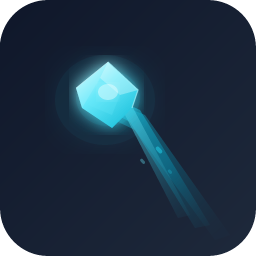
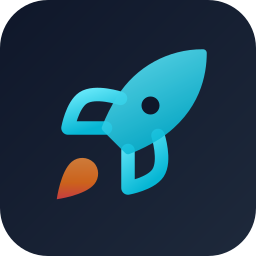
[media]: ikon ve README guncellendi
- icon.png roket ikonuyla degistirildi (256x256)
- sidebar-icon.svg Lucide rocket ikonu olarak guncellendi (24x24)
- Kullanilmayan icon.svg silindi
- README badge ve link'ler kairos reposuna guncellendi

Changed region(s): [[0.2188, 0.1875, 0.8125, 0.8438], [0.2188, 0.5938, 0.4062, 0.7812], [0.0, 0.125, 0.0312, 0.1562]]

diff --git a/README.md b/README.md
@@ -11,7 +11,7 @@
 
 <p align="center">
   <a href="https://code.visualstudio.com/"><img src="https://img.shields.io/badge/VS%20Code-%5E1.85.0-007ACC?logo=visual-studio-code&logoColor=white" alt="VS Code"></a>
-  <a href="https://github.com/Kenfrozz/roadmap-editor-vscode/releases"><img src="https://img.shields.io/github/v/release/Kenfrozz/roadmap-editor-vscode?color=28a745" alt="Version"></a>
+  <a href="https://github.com/Kenfrozz/kairos/releases"><img src="https://img.shields.io/github/v/release/Kenfrozz/kairos?color=28a745" alt="Version"></a>
   <a href="LICENSE"><img src="https://img.shields.io/badge/License-MIT-yellow.svg" alt="License: MIT"></a>
 </p>
 
@@ -48,8 +48,8 @@ VS Code Extensions bolumunden **Kairos** aratarak yukleyin.
 ### Manuel Kurulum
 
 ```bash
-git clone https://github.com/Kenfrozz/roadmap-editor-vscode.git
-cd roadmap-editor-vscode
+git clone https://github.com/Kenfrozz/kairos.git
+cd kairos
 npm install
 npm run build
 ```
@@ -164,7 +164,7 @@ npm run package
 ### Proje Yapisi
 
 ```
-roadmap-editor-vscode/
+kairos/
 ├── src/                           # Extension backend (TypeScript)
 │   ├── extension.ts               # Activation & komut kayitlari
 │   ├── KairosPanel.ts             # Tab webview paneli
@@ -224,7 +224,7 @@ Detaylar icin [ARCHITECTURE.md](ARCHITECTURE.md) dosyasina bakin.
 
 Katkida bulunmak istiyorsaniz [CONTRIBUTING.md](CONTRIBUTING.md) dosyasina bakin.
 
-Hata raporlari ve ozellik istekleri icin [GitHub Issues](https://github.com/Kenfrozz/roadmap-editor-vscode/issues) kullanin.
+Hata raporlari ve ozellik istekleri icin [GitHub Issues](https://github.com/Kenfrozz/kairos/issues) kullanin.
 
 ## Lisans
 
